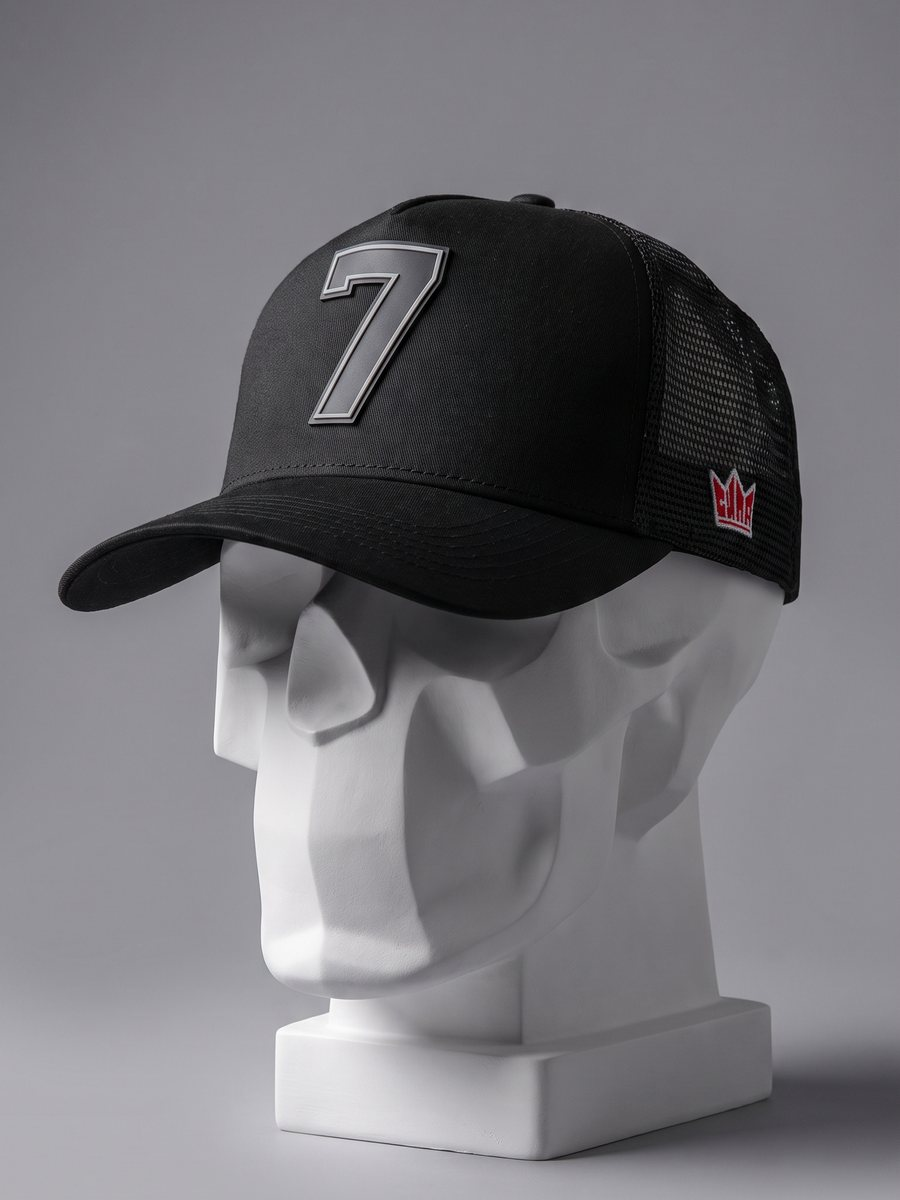
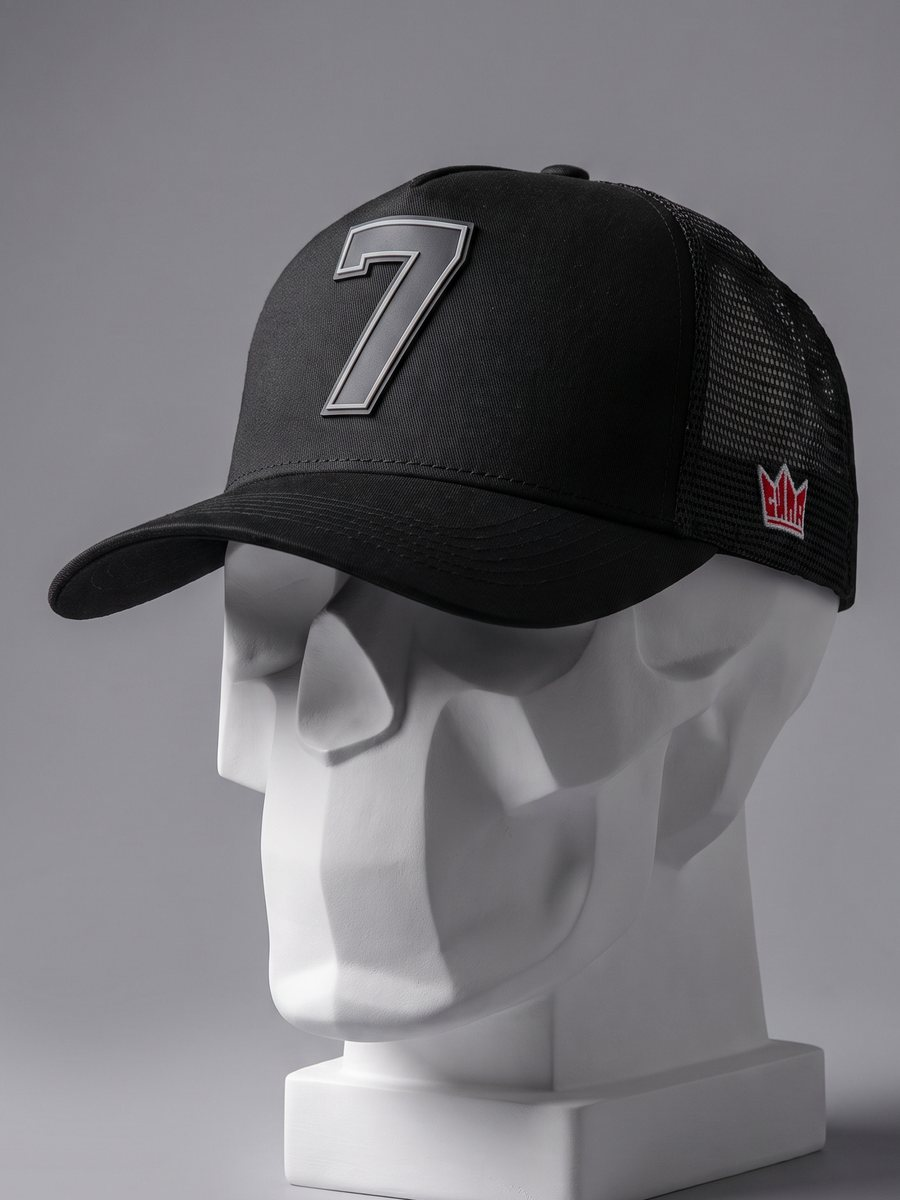
Карточки бейсболок: единая кадровка
Все четыре фото перекадрированы из исходников по одной сетке: кепка
одной ширины, верх тульи и козырёк на одной линии, по центру кадра.

Claude-Session: https://claude.ai/code/session_01Spvsfi1aAUUHrj1LgH2Zp3

Changed region(s): [[0.1867, 0.1233, 1.0, 1.0], [0.0311, 0.4625, 0.1867, 0.5242], [0.7156, 0.5242, 0.7778, 0.5858]]

diff --git a/index.html b/index.html
@@ -121,7 +121,7 @@
 
       <div class="caps">
         <article class="cap">
-          <img src="images/pipa-gym-drop.jpg" alt="PIPA GYM — белый передок, принт GYM, графитовая сетка" width="900" height="1200" loading="lazy">
+          <img src="images/pipa-gym-drop.jpg?v=2" alt="PIPA GYM — белый передок, принт GYM, графитовая сетка" width="900" height="1200" loading="lazy">
           <div class="cap__body">
             <h3 class="cap__name">GYM</h3>
             <p>Белый передок с принтом GYM, графитовые козырёк и сетка.</p>
@@ -129,7 +129,7 @@
           </div>
         </article>
         <article class="cap">
-          <img src="images/pipa-mafia-drop.jpg" alt="PIPA MAFIA — чёрная бейсболка с красной пластиной MAFIA" width="900" height="1200" loading="lazy">
+          <img src="images/pipa-mafia-drop.jpg?v=2" alt="PIPA MAFIA — чёрная бейсболка с красной пластиной MAFIA" width="900" height="1200" loading="lazy">
           <div class="cap__body">
             <h3 class="cap__name">MAFIA</h3>
             <p>Чёрная, с глянцевой красной пластиной MAFIA на заклёпках.</p>
@@ -137,7 +137,7 @@
           </div>
         </article>
         <article class="cap">
-          <img src="images/pipa-7-drop.jpg" alt="PIPA №7 — чёрная бейсболка с объёмной серой семёркой" width="900" height="1200" loading="lazy">
+          <img src="images/pipa-7-drop.jpg?v=2" alt="PIPA №7 — чёрная бейсболка с объёмной серой семёркой" width="900" height="1200" loading="lazy">
           <div class="cap__body">
             <h3 class="cap__name">№7</h3>
             <p>Чёрная, с объёмной серой цифрой 7 спереди.</p>
@@ -145,7 +145,7 @@
           </div>
         </article>
         <article class="cap">
-          <img src="images/pipa-multicam-drop.jpg" alt="PIPA MULTICAM — серо-чёрный камуфляж с нашивкой P" width="900" height="1200" loading="lazy">
+          <img src="images/pipa-multicam-drop.jpg?v=2" alt="PIPA MULTICAM — серо-чёрный камуфляж с нашивкой P" width="900" height="1200" loading="lazy">
           <div class="cap__body">
             <h3 class="cap__name">Multicam</h3>
             <p>Серо-чёрный камуфляж, нашивка-щит с буквой P.</p>
